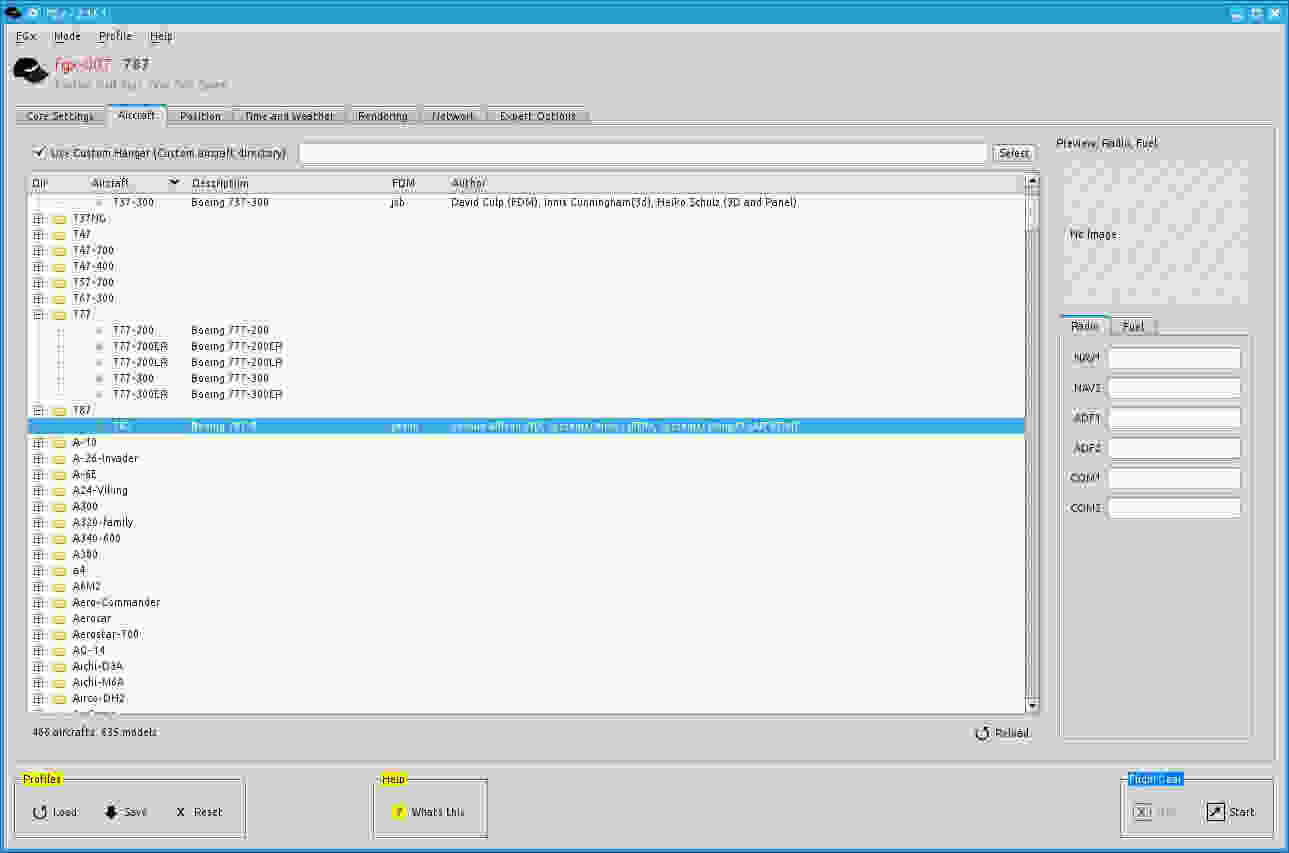
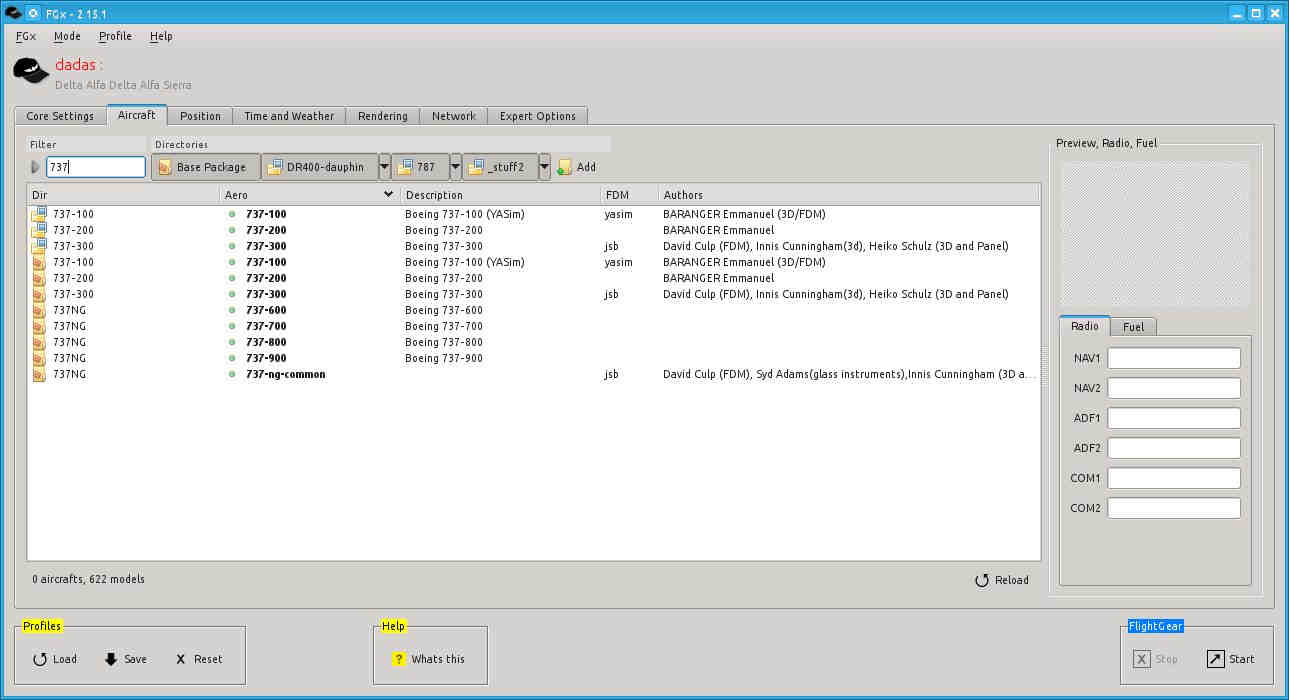
aircraft filters

Changed region(s): [[0.0, 0.0, 1.0, 1.0]]

diff --git a/src/aircraft/aircraftwidget.cpp b/src/aircraft/aircraftwidget.cpp
@@ -142,11 +142,11 @@ AircraftWidget::AircraftWidget(MainObject *mOb, QWidget *parent) :
     grpCustomDirs->setTitle("Directories");
 
     //= Show Base button
-    QToolButton * buttShowBase = new QToolButton();
-    buttShowBase->setProperty("dir", mainObject->X->aircraft_path() );
+    buttShowBase = new QToolButton();
+    //buttShowBase->setProperty("dir", mainObject->X->aircraft_path() ); ?? WE DO THIS AT LOAD_AIRCRAFT IN CASE CHANGED
     buttShowBase->setProperty("base", "1" );
-    buttShowBase->setToolTip(mainObject->X->aircraft_path());
-    buttShowBase->setText("Base Package");
+    buttShowBase->setToolTip( mainObject->X->aircraft_path());
+    buttShowBase->setText( "Base Package" );
     buttShowBase->setIcon(QIcon(":/icon/base_folder"));
     buttShowBase->setCheckable(true);
     buttShowBase->setChecked(true);
@@ -182,9 +182,12 @@ AircraftWidget::AircraftWidget(MainObject *mOb, QWidget *parent) :
     treeView->setColumnWidth(C_DIR, 60);
     treeView->setColumnWidth(C_FDM, 60);
     treeView->setColumnWidth(C_DESCRIPTION, 200);
-    //treeView->setColumnHidden(C_XML_FILE, true);
-    //treeView->setColumnHidden(C_FILE_PATH, true);
-    //treeView->setColumnHidden(C_FILTER, true);
+    treeView->setColumnHidden(C_XML_FILE, true);
+    treeView->setColumnHidden(C_FILE_PATH, true);
+    treeView->setColumnHidden(C_FILTER_PATH, true);
+    //treeView->setColumnHidden(C_DESCRIPTION, true);
+    //treeView->setColumnHidden(C_AUTHOR, true);
+    treeView->setColumnHidden(C_FILTER, true);
     connect( treeView->selectionModel(),
              SIGNAL( selectionChanged(const QItemSelection &, const QItemSelection & ) ),
              SLOT( on_tree_selection_changed() )
@@ -475,7 +478,7 @@ void AircraftWidget::on_reload_cache(){
 
 void AircraftWidget::load_custom_aircraft(){
 
-     QList<QStandardItem*> row;
+    QList<QStandardItem*> row;
     //=== Load Custom Paths
     QStringList custom_dirs = this->mainObject->settings->value("custom_aircraft_dirs").toStringList();
     for(int i = 0; i < custom_dirs.size(); i++){
@@ -483,6 +486,7 @@ void AircraftWidget::load_custom_aircraft(){
        //qDebug() << xmlSets;
         for(int fi = 0; fi < xmlSets.length(); fi++){
             ModelInfo mi = AircraftData::read_model_xml(xmlSets.at(fi).absoluteFilePath());
+
             // Add model row
             row = this->create_model_row();
             row.at(C_DIR)->setText(mi.dir);
@@ -499,7 +503,7 @@ void AircraftWidget::load_custom_aircraft(){
             row.at(C_AUTHOR)->setText(mi.authors);
             row.at(C_XML_FILE)->setText(mi.xml_file);
             row.at(C_FILE_PATH)->setText(mi.file_path);
-            row.at(C_DIR_PATH)->setText(mi.dir_path);
+            row.at(C_FILTER_PATH)->setText(custom_dirs.at(i));
 
             QString filter_str = mi.aero;
             filter_str.append( mi.description );
@@ -511,6 +515,9 @@ void AircraftWidget::load_custom_aircraft(){
 //=============================================================
 // Load Aircaft To Tree
 void AircraftWidget::load_aircraft(){
+
+    buttShowBase->setToolTip( mainObject->X->aircraft_path());
+    buttShowBase->setProperty("dir", mainObject->X->aircraft_path());
 
     int c =0;
 
@@ -552,7 +559,7 @@ void AircraftWidget::load_aircraft(){
         row.at(C_AUTHOR)->setText(cols.at(C_AUTHOR));
         row.at(C_XML_FILE)->setText(cols.at(C_XML_FILE));
         row.at(C_FILE_PATH)->setText(cols.at(C_FILE_PATH));
-        row.at(C_DIR_PATH)->setText(cols.at(C_DIR_PATH));
+        row.at(C_FILTER_PATH)->setText(cols.at(C_FILTER_PATH));
 
         QString filter_str = cols.at(C_AERO);
         filter_str.append(cols.at(C_DESCRIPTION) );
@@ -561,7 +568,7 @@ void AircraftWidget::load_aircraft(){
         line = in.readLine();
     }
 
-    treeView->sortByColumn(C_DIR, Qt::AscendingOrder);
+    //treeView->sortByColumn(C_DIR, Qt::AscendingOrder);
     treeView->sortByColumn(C_AERO, Qt::AscendingOrder);
 
     treeView->resizeColumnToContents(C_DIR);
@@ -689,6 +696,8 @@ void AircraftWidget::on_toggle_directory(){
 
     for(int i = 0; i < buttGroupShowDirs->buttons().length(); i++){
         QString dir = buttGroupShowDirs->buttons().at(i)->property("dir").toString();
+       // qDebug() << "d=" << dir;
+        this->proxyModel->show_dir(dir, buttGroupShowDirs->buttons().at(i)->isChecked());
     }
 }
 
@@ -765,7 +774,7 @@ void AircraftWidget::load_custom_dir_buttons()
        lstCustomDirButtons.append(buttDir);
        qDebug() << "Add button" << dinfo.absoluteFilePath();
        buttDir->setProperty("dir", dinfo.absoluteFilePath());
-       buttDir->setToolTip(mainObject->X->aircraft_path());
+       buttDir->setToolTip(custom_dirs.at(i));
        buttDir->setText(dinfo.baseName());
        buttDir->setIcon(QIcon(":/icon/custom_folder"));
        buttDir->setCheckable(true);
@@ -786,11 +795,12 @@ void AircraftWidget::load_custom_dir_buttons()
        meniw->addAction(act);
       //  qDebug() << "post action =" << dinfo.absoluteFilePath();
        actGroupDeleteCustomDirs->addAction(act);
-         qDebug() << "  psot group =" << dinfo.absoluteFilePath();
+       qDebug() << "  psot group =" << dinfo.absoluteFilePath();
 
 
    }
    qDebug() << " Done loading";
+   this->on_toggle_directory();
 }
 void AircraftWidget::on_open_aircraft_path()
 {

diff --git a/src/aircraft/aircraftdata.cpp b/src/aircraft/aircraftdata.cpp
@@ -52,9 +52,10 @@ bool AircraftData::import(QProgressDialog &progress, MainObject *mainObject){
 
     QTextStream out(&cacheFile);
 
+    QString aircraft_base_path =  mainObject->X->aircraft_path();
     //= Get files Entries from Aircaft/ directory
-    QDir aircraftDir( mainObject->X->aircraft_path() );
-    qDebug() << "aircraft_path()=" << mainObject->X->aircraft_path() ;
+    QDir aircraftDir(aircraft_base_path);
+    qDebug() << "aircraft_path()=" << aircraft_base_path;
 
     aircraftDir.setFilter( QDir::Dirs | QDir::NoSymLinks | QDir::NoDotAndDotDot);
 
@@ -92,8 +93,9 @@ bool AircraftData::import(QProgressDialog &progress, MainObject *mainObject){
                     file_path.append(xml_file);
 
                     ModelInfo mi = AircraftData::read_model_xml(file_path);
+                    mi.filter_path = aircraft_base_path;
                     QStringList lines;
-                    lines  << mi.dir << mi.aero << mi.description << mi.fdm << mi.authors << mi.xml_file << mi.file_path << mi.dir_path;
+                    lines  << mi.dir << mi.aero << mi.description << mi.fdm << mi.authors << mi.xml_file << mi.file_path << mi.filter_path;
                     out << lines.join("\t") << "\n";
 
                     found++;
@@ -113,6 +115,8 @@ bool AircraftData::import(QProgressDialog &progress, MainObject *mainObject){
     cacheFile.close();
     return false;
 }
+
+/* \brief Returns all -set.xml files in a directory. Recus is for custom folder and selecting a parent */
 QFileInfoList AircraftData::get_xml_set_files(QString dir_path, bool recus){
     QDir dir( dir_path );
     QStringList filters;
@@ -133,7 +137,7 @@ QFileInfoList AircraftData::get_xml_set_files(QString dir_path, bool recus){
     return setList;
 }
 
-/* \brief Parses the xml-set file */
+/* \brief Parses the xml-set file by querying DOM */
 ModelInfo AircraftData::read_model_xml(QString xml_set_path){
 
     QFileInfo fInfo(xml_set_path);
@@ -141,7 +145,7 @@ ModelInfo AircraftData::read_model_xml(QString xml_set_path){
     ModelInfo mi;
     mi.ok = false;
     mi.file_path = xml_set_path;
-    mi.dir_path = fInfo.dir().absolutePath();
+    //mi.dir_path = fInfo.dir().absolutePath();
     mi.dir = fInfo.dir().dirName();
 
     // the model = filename without --set.xml

diff --git a/src/aircraft/aircraftproxymodel.cpp b/src/aircraft/aircraftproxymodel.cpp
@@ -1,6 +1,37 @@
+
+#include <QtDebug>
+#include <QStandardItemModel>
 #include "aircraftproxymodel.h"
 
 AircraftProxyModel::AircraftProxyModel(QObject *parent) :
     QSortFilterProxyModel(parent)
 {
+}
+
+// This adds or removed entries to the filter
+void AircraftProxyModel::show_dir(QString dir, bool show){
+
+    int idx = this->dirs.indexOf(dir);
+
+    if(show == false){
+        if( idx != -1){
+            this->dirs.removeAt(idx);
+        }
+    } else {
+        if( idx == -1){
+            this->dirs.append(dir);
+        }
+    }
+    this->invalidateFilter();
+}
+
+bool AircraftProxyModel::filterAcceptsRow(int source_row, const QModelIndex & source_parent ) const {
+
+    QModelIndex dirIdx = this->sourceModel()->index(source_row, 7);
+    QString dir = this->sourceModel()->data(dirIdx,  Qt::DisplayRole).toString();
+    int idx = this->dirs.indexOf(dir);
+    if(idx == -1){
+        return false;
+    }
+    return QSortFilterProxyModel::filterAcceptsRow( source_row, source_parent);
 }

diff --git a/src/aircraft/aircraftproxymodel.h b/src/aircraft/aircraftproxymodel.h
@@ -1,6 +1,8 @@
 #ifndef AIRCRAFTPROXYMODEL_H
 #define AIRCRAFTPROXYMODEL_H
 
+
+#include <QStringList>
 #include <QSortFilterProxyModel>
 
 class AircraftProxyModel : public QSortFilterProxyModel
@@ -9,6 +11,10 @@ class AircraftProxyModel : public QSortFilterProxyModel
 public:
     explicit AircraftProxyModel(QObject *parent = 0);
 
+    QStringList dirs;
+    void show_dir(QString dir, bool show);
+
+    bool filterAcceptsRow(int source_row, const QModelIndex & source_parent ) const;
 signals:
 
 public slots:

diff --git a/src/aircraft/aircraftwidget.h b/src/aircraft/aircraftwidget.h
@@ -55,7 +55,7 @@ public:
         C_AUTHOR,
         C_XML_FILE,
         C_FILE_PATH,
-        C_DIR_PATH,
+        C_FILTER_PATH,
         C_FILTER
     };
 
@@ -73,6 +73,7 @@ public:
     /* \brief List of pointers to custon Buttons */
     QList<QToolButton*> lstCustomDirButtons;
     QLineEdit *txtFilter;
+    QToolButton * buttShowBase;
 
 
     QLabel *aeroImageLabel;

diff --git a/src/aircraft/modelinfo.h b/src/aircraft/modelinfo.h
@@ -17,7 +17,7 @@ public:
     QString authors;
     QString description;
     QString file_path;
-    QString dir_path; // for filter
+    QString filter_path; // for filter
 };
 
 #endif // MODELINFO_H
